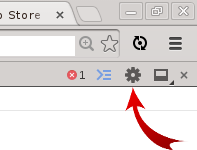
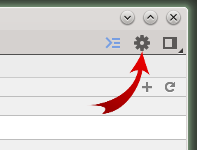
Add elements section

diff --git a/elements/styles.css b/elements/styles.css
@@ -1,0 +1,15 @@
+.state-change {
+	background-color: white;
+}
+
+.state-change:hover {
+	background-color: red;
+}
+
+.state-change:active {
+	background-color: green;
+}
+
+.state-change:focus {
+	background-color: blue;
+}

diff --git a/basics/navigation.md b/basics/navigation.md
@@ -1,8 +1,10 @@
 Navigation
 ==========
 
+Load the developer tools by pressing `F12`. 
+
 The developer tools are separated into eight tabs in addition to a settings dialog:
-  * Elements - Inspect the DOM tree and associated styles and event listeners.
+  * Elements - Inspect and manipulate the DOM tree and associated styles and event listeners.
   * Network - Monitor and examine network requests.
   * Sources - Examine, edit, and debug source code.
   * Timeline - Display and record activity as it runs, including events, script activity, page rendering, and memory usage.
@@ -11,4 +13,8 @@ The developer tools are separated into eight tabs in addition to a settings dial
   * Audits - Execute page performance and CSS usage audits.
   * Console
 
+Navigate between the separate tabs by pressing `ctr` + '[' and `ctr` + ']'
+
 The Console is available at from any tab by pressing the `escape` key or `ctr` + `~`
+
+[More keyboard shortcuts](https://developers.google.com/chrome-developer-tools/docs/shortcuts)

diff --git a/elements/styles.md b/elements/styles.md
@@ -1,0 +1,24 @@
+Styles
+======
+
+<img src='/elements/styles.png' style="float: right;">
+
+  * The toggle state button allows you to toggle CSS pseudo anchor state.
+  * Clicking the source file name or `ctr` + `click` the property will load the associated source file.
+  * Properties that are ~~crossed out~~ are either overriden or unknown to Chrome.
+  
+<br/>
+####Inspect the following element and toggle its state.
+<textarea class="state-change">State changes</textarea>  
+<br/>
+<br/>
+
+Increment property values with the following shortcuts:
+
+| Increment Value | key-stroke                             |
+|:---------------:|:--------------------------------------:|
+| .1              | `alt` + `up` & `alt` + `down`          |
+| 1               | `up` & `down`                          |
+| 10              | `shift` + `up` & `shift` + `down`      |
+
+<link rel='stylesheet' href='/elements/styles.css' type='text/css' media='screen' />

diff --git a/basics/README.md b/basics/README.md
@@ -1,4 +1,13 @@
 Basics
 ==========
 
-Versions of Chrome
+  * Stable - Updated roughly every two-three weeks for minor releases, and every 6 weeks for major releases.
+  * Beta - Updated every week roughly, with major updates coming every six weeks, more than a month before the Stable channel will get them.
+  * Dev  - Updated once or twice weekly.
+  * Canary - Nightly update 
+
+[Chrome Release Channels](http://www.chromium.org/getting-involved/dev-channel)
+
+The Canary channel is not available for Linux. If you want a nightly build see the [chromium](https://download-chromium.appspot.com/) [project](http://commondatastorage.googleapis.com/chromium-browser-continuous/index.html)
+
+Create multiple instances of chrome that have separate plugins enabled through User Profiles.

diff --git a/basics/chrome-pages.md b/basics/chrome-pages.md
@@ -1,0 +1,10 @@
+Internal Chrome Pages
+=====================
+A chomplete list of internal Chrome URLs is available at [chrome://about/](chrome://about/)
+
+###Flags of interest
+  * `chrome://flags` - Experimental features that may cause instability in the browser. 
+    * `Enable Developer Tools experiments` - Useful for new additions to the developer tools.
+    * `Enable Experimental JavaScript` - Enable [ECMAScript 6](https://github.com/lukehoban/es6features) additions.
+    * `Enable experimental Web Platform features` - Enable experimental features in Blink
+  * `chrome://inspect` - Device inspection

diff --git a/basics/settings.md b/basics/settings.md
@@ -1,4 +1,12 @@
 Settings
 ========
-
+The settings dialog is available by pressing the cog icon in the top right corner of the dev tools or with the keyboard shortcut `?`
 ![alt text](/basics/settings.png "Logo Title Text 1")
+
+[Full settings documentation](https://developers.google.com/chrome-developer-tools/docs/settings)
+
+###Options to note
+  * Disable cache (while DevTools is open)
+  * Enable JavaScript and CSS source maps
+  * Experiments - Will only appear if enabled (chrome://flags/#enable-devtools-experiments)[chrome://flags/#enable-devtools-experiments]
+  * Workspace

diff --git a/elements/README.md b/elements/README.md
@@ -1,0 +1,11 @@
+Elements
+========
+
+###DOM Tree
+  * As you hover over elements in the DOM tree, they will automatically highlight on the page.
+  * The path to selected element is displayed at the bottom of the window.
+  * Inspect a specific element with the ![alt text](/elements/mag.png "Magnifying Icon") or by right clicking an element on the page and click `Inspect Element`
+  * Options to edit the content of the DOM are available from the context menu (right click).
+  * It can be very useful to copy the CSS or XPath to a selected element.
+
+

diff --git a/SUMMARY.md b/SUMMARY.md
@@ -2,11 +2,11 @@
 
 This is the summary of my book.
 * [Basics](basics/README.md)
+	* [Internal Chrome Pages](basics/chrome-pages.md)
 	* [Navigation](basics/navigation.md)
 	* [Settings](basics/settings.md)
-	* [Profiles](basics/profiles.md)
 * [Elements](elements/README.md)
-	* [Incrementing Values](elements/incrementing.md)
+	* [Styles](elements/styles.md)
 	* [Source Maps](elements/less-sourcemaps.md)
 	* [DOM Breakpoints](elements/dom-breakpoints.md)
 	* [Toggle State](elements/toggle-state.md)
